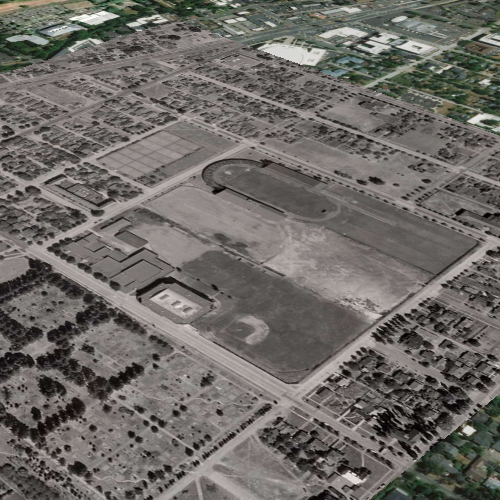
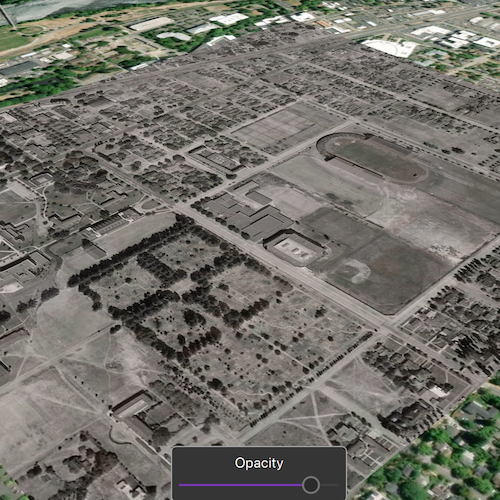
EditKmlGroundOverlay(EditData) - added label to slider and changed position.

diff --git a/CppSamples/EditData/EditKmlGroundOverlay/EditKmlGroundOverlay.qml b/CppSamples/EditData/EditKmlGroundOverlay/EditKmlGroundOverlay.qml
@@ -28,34 +28,60 @@ Item {
             // Set the focus on SceneView to initially enable keyboard navigation
             forceActiveFocus();
         }
+
+        // Slider UI presentation at bottom
+        Rectangle {
+            anchors {
+                horizontalCenter: parent.horizontalCenter
+                bottom: view.attributionTop
+            }
+            width: childrenRect.width
+            height: childrenRect.height
+            radius: 5
+            color: palette.base
+            border {
+                width: 1
+                color: "darkgrey"
+            }
+
+            Column {
+                padding: 8
+                spacing: 5
+
+                Label {
+                    anchors {
+                        horizontalCenter: parent.horizontalCenter
+                    }
+                    text: "Opacity"
+                }
+
+                // sliderCombo: A slider and text for its value
+                Row {
+                    id: sliderCombo
+
+                    Slider {
+                        id: slider
+                        anchors {
+                            verticalCenter: parent.verticalCenter
+                        }
+                        // Slider controls degrees of rotation
+                        from: 0
+                        to: 255
+                        value: 255
+                        stepSize: 25
+                        onValueChanged: {
+                            // modify the overlay's color/alpha value
+                            model.setOpacity(value);
+                        }
+                    }
+                }
+            }
+        }
     }
 
     // Declare the C++ instance which creates the scene etc. and supply the view
     EditKmlGroundOverlaySample {
         id: model
         sceneView: view
-    }
-
-    Rectangle {
-        anchors.fill: slider
-        radius: 5
-        color: palette.base
-    }
-
-    Slider {
-        id: slider
-        anchors {
-            left: parent.left
-            top: parent.top
-            margins: 10
-        }
-        from: 0
-        to: 255
-        value: 255
-        stepSize: 25
-        onValueChanged: {
-            // modify the overlay's color/alpha value
-            model.setOpacity(value);
-        }
     }
 }
